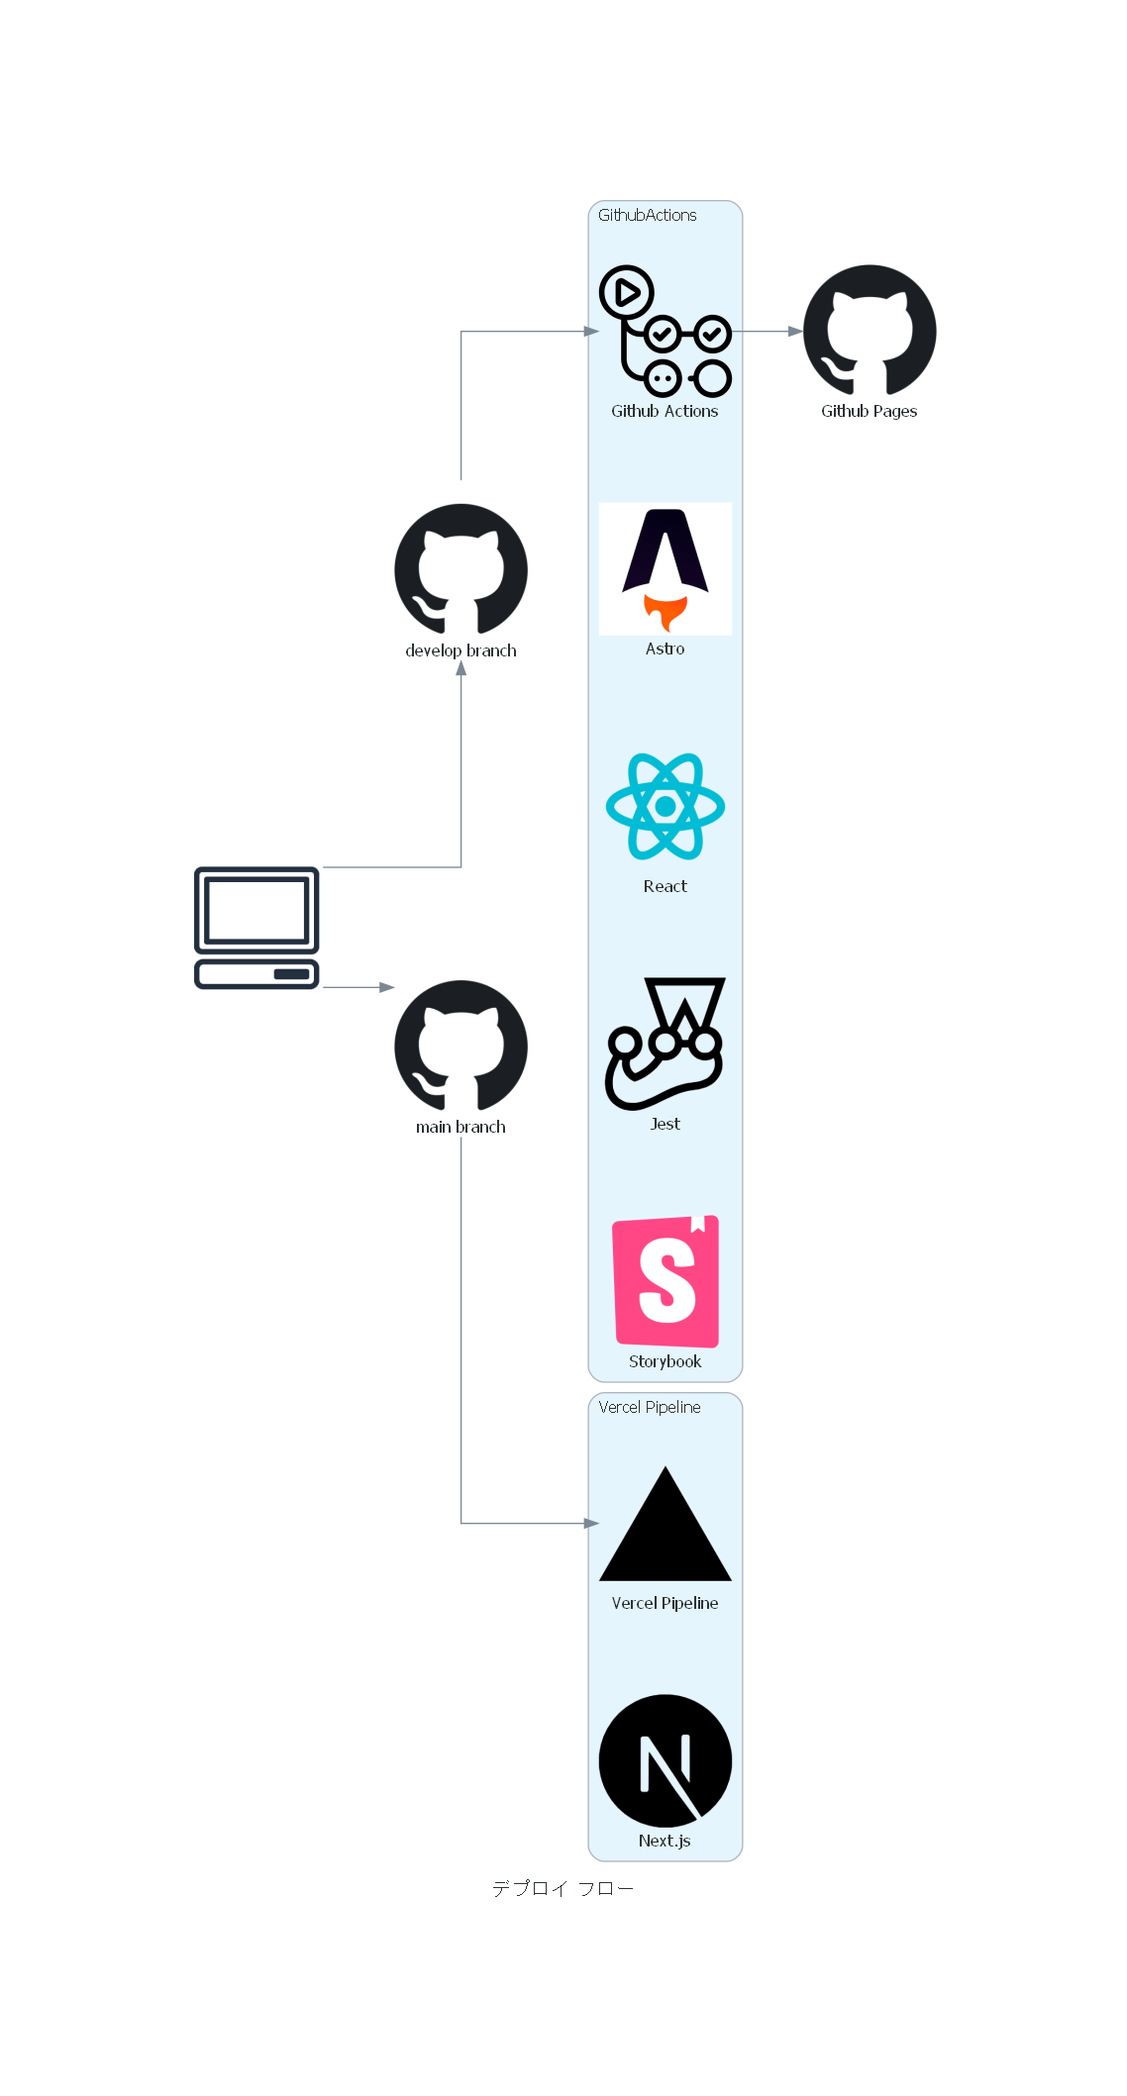
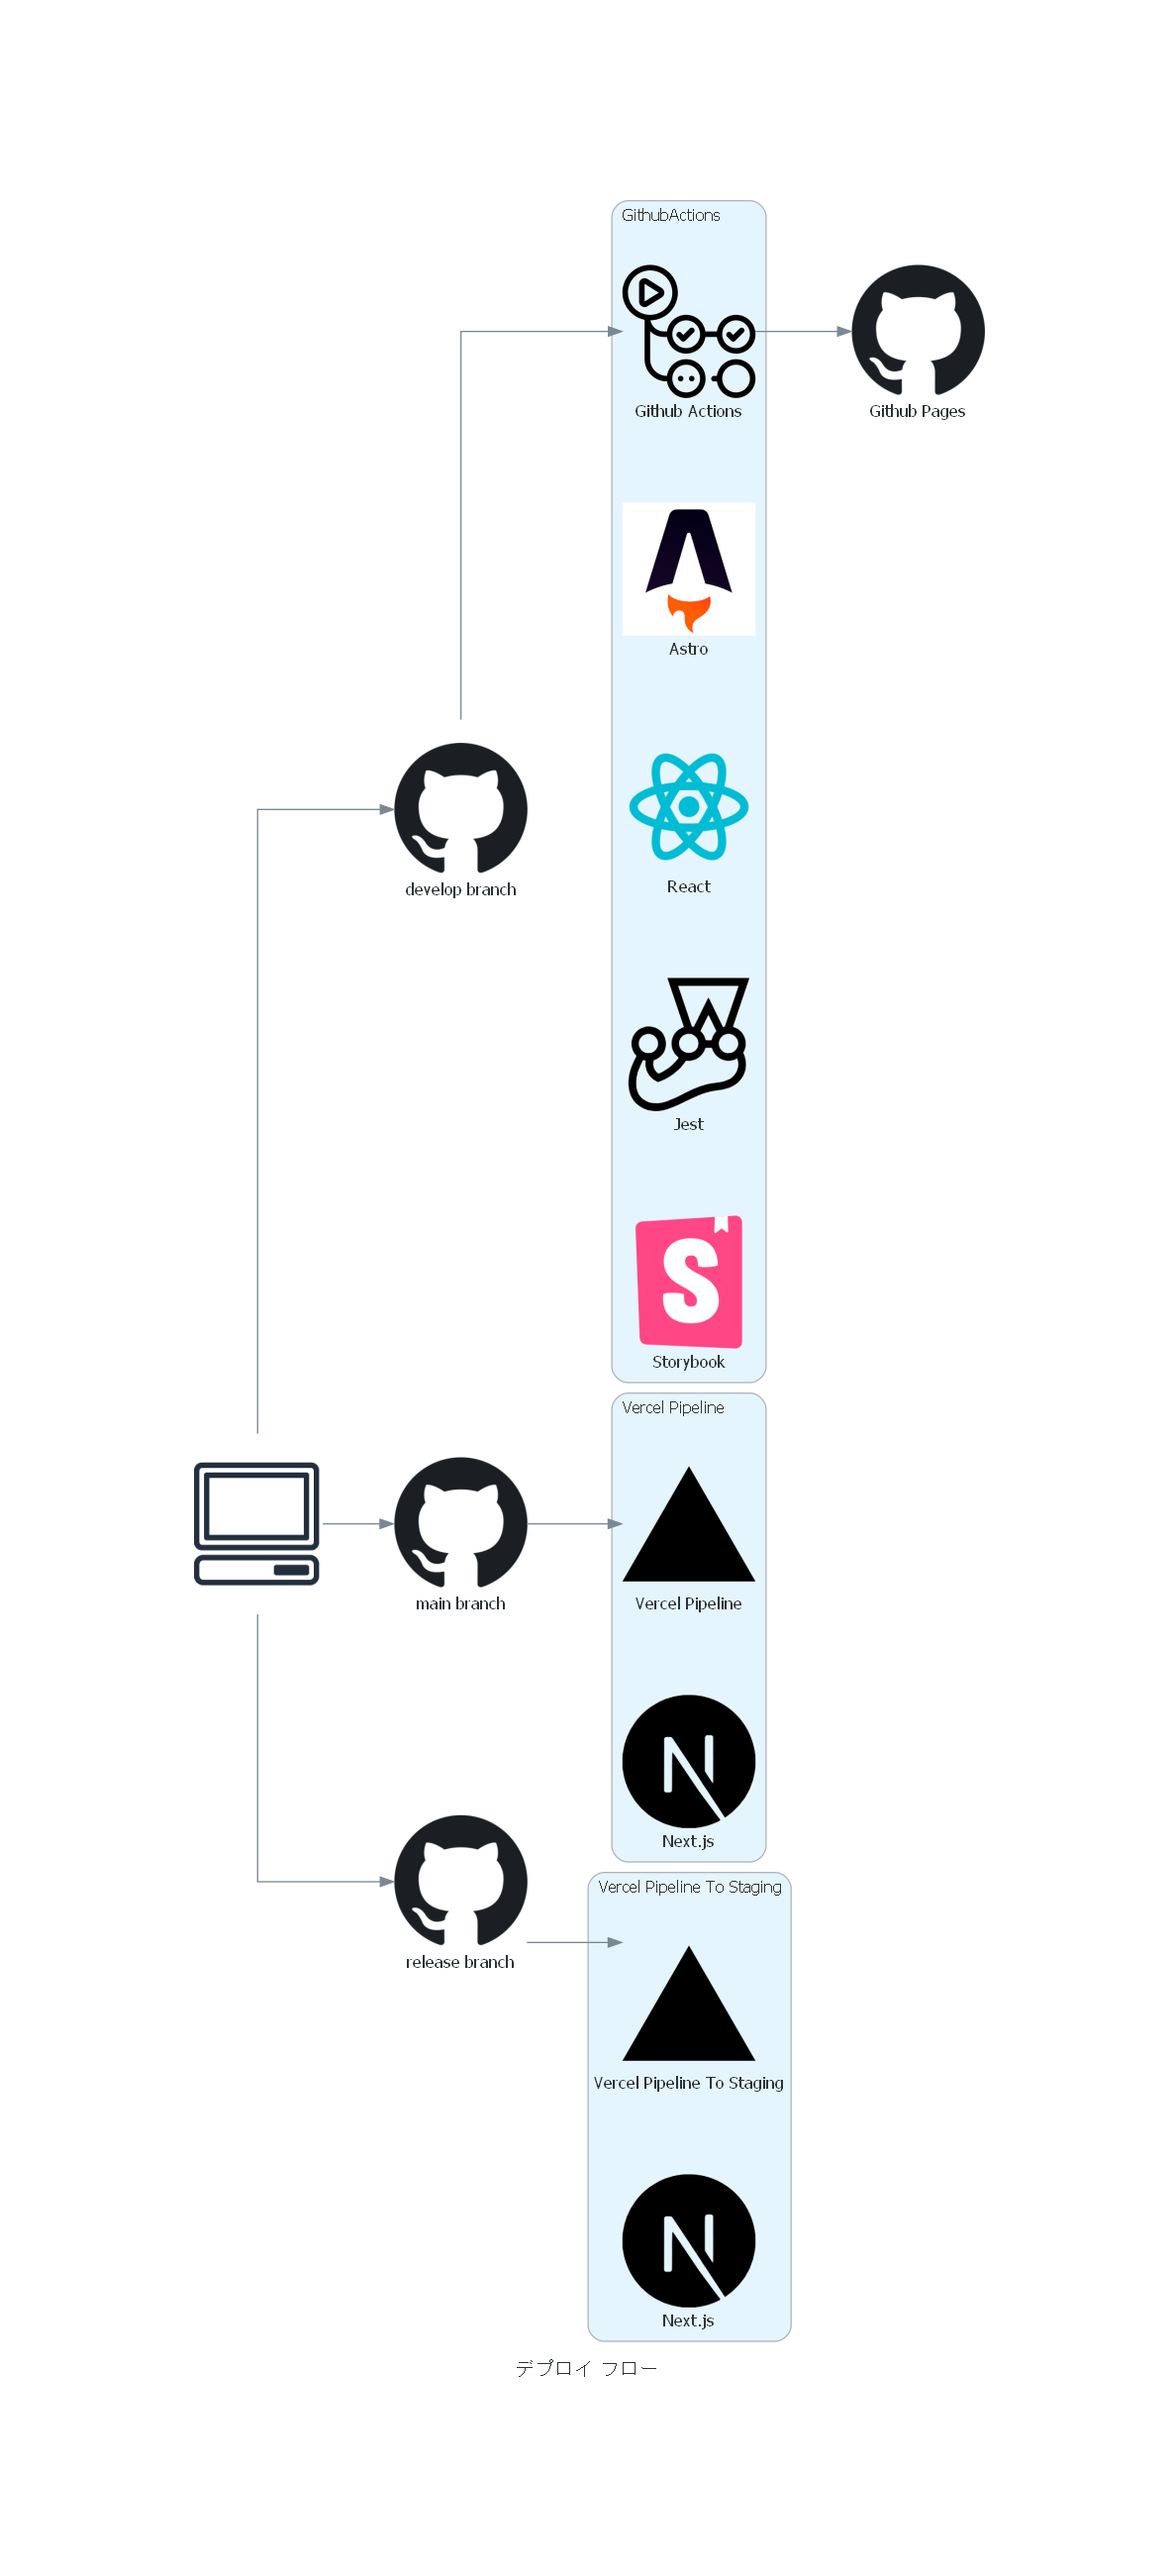
fix ブランチ戦略 #6

diff --git a/docs/diagrams/deploy.py b/docs/diagrams/deploy.py
@@ -20,4 +20,9 @@ with Diagram('デプロイ フロー',filename="../astro/public/images/deploy",)
     with Cluster("Vercel Pipeline"):
         Vercel = Custom('Vercel Pipeline','../../../diagrams/icons/vercel-icon-svgrepo-com.png')
         Custom('Next.js','../../../diagrams/icons/next-dot-js-svgrepo-com.png')
+
     cl >> Github('main branch') >> Vercel
+    with Cluster("Vercel Pipeline To Staging"):
+        VercelStg = Custom('Vercel Pipeline To Staging','../../../diagrams/icons/vercel-icon-svgrepo-com.png')
+        Custom('Next.js','../../../diagrams/icons/next-dot-js-svgrepo-com.png')
+    cl >> Github('release branch') >> VercelStg

diff --git a/docs/astro/src/pages/ja/introduction.md b/docs/astro/src/pages/ja/introduction.md
@@ -11,9 +11,11 @@ layout: ../../layouts/MainLayout.astro
 ## ブランチ戦略
 
 - 簡易 gitflow
-- id/{issue 番号}/\* で feature ブランチを作成して作業
-- いずれ、release/\* ブランチから main にコミットするようにしたい。
-  - release/\* ブランチ作成時にはステージング環境へのデプロイをしたい
+- id/{issue 番号}/\* で develop ブランチから feature ブランチを作成して作業
+- main ブランチへのマージは release/\* ブランチからのみ行う。
+  - release/\* ブランチ作成時にはステージング環境へのデプロイを行う
+  - main ブランチへのマージ時には本番環境へのデプロイを行う
+  - main ブランチにマージしたタイミングでタグをつける
 
 <pre class="mermaid">
 
@@ -34,8 +36,11 @@ gitGraph
     commit
     checkout develop
     merge id/1/featureA
+    branch release/0.2.0
+    checkout release/0.2.0
+    commit
     checkout main
-    merge develop
+    merge release/0.2.0 tag: "v0.2"
     checkout id/2/featureB
     merge develop
     commit
